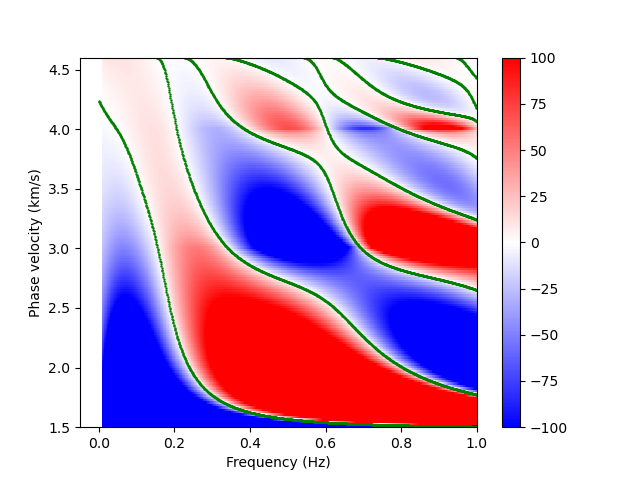
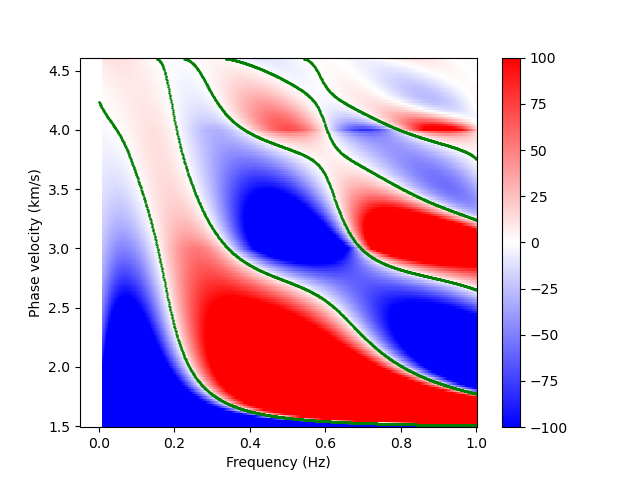
Merge pull request #34 from akuhara/Love
Love

Pull request: Love

diff --git a/test/rayleigh_wave_dispersion_ocean/plot.py b/test/rayleigh_wave_dispersion_ocean/plot.py
@@ -1,18 +1,20 @@
 import numpy as np
+import os
+import tempfile
+os.environ.setdefault("MPLCONFIGDIR", os.path.join(tempfile.gettempdir(), "matplotlib-cache"))
 import matplotlib.pyplot as plt
 import pandas as pd
-import matplotlib as mpl
 
 
 
 
 fig, ax = plt.subplots()
 
-df = pd.read_csv("disper_test.out", delim_whitespace=True, header=None, \
+df = pd.read_csv("disper_test.out", sep=r"\s+", header=None, \
                  names=("Frequency (Hz)", "Phase velocity (km/s)", "Value"))
 
 c, f = np.mgrid[slice(1.5, 4.62, 0.02), slice(0.01, 1.002, 0.002)]
-data = df.pivot("Phase velocity (km/s)", "Frequency (Hz)", "Value")
+data = df.pivot(index="Phase velocity (km/s)", columns="Frequency (Hz)", values="Value")
 
 mappable = ax.pcolormesh(f, c, data, cmap="bwr", vmin=-100, vmax=100)
 cbar = fig.colorbar(mappable, ax=ax)
@@ -26,7 +28,7 @@ with open("tmp.disp", 'w') as f2:
                 f2.write(line)
 
 
-df2 = pd.read_csv("tmp.disp", delim_whitespace=True, header=None, \
+df2 = pd.read_csv("tmp.disp", sep=r"\s+", header=None, \
                   names=("ID", "Frequency (Hz)", "Phase velocity (km/s)"))
 df2.plot.scatter("Frequency (Hz)", "Phase velocity (km/s)", ax=ax, s=2, \
                  marker=".", c="green")

diff --git a/test/love_wave_dispersion/README.md b/test/love_wave_dispersion/README.md
@@ -1,0 +1,18 @@
+# Test for Love wave dispersion curves
+#### Comparison to [Computer Programs in Seismology (CPS) by Harrmann](http://www.eas.slu.edu/eqc/eqccps.html)
+
+![Compalison](./love_test.png)
+
+* Red and blue: Dispersion functions by `disper_fwd`
+* Green: Dispersion curves by CPS
+
+#### Tested model
+|Vp (km/s)|Vs (km/s)|rho (g/cm^3)|Thickness (km)|
+|:---|:---|:---|:---|
+|5.0|3.0|2.5|5.0|
+|7.0|4.0|3.0|10.0|
+|8.1|4.6|3.3|-|
+
+#### Reference:
+
+Robert B. Herrmann; Computer Programs in Seismology: An Evolving Tool for Instruction and Research. Seismological Research Letters ; 84 (6): 1081–1088. doi: (https://doi.org/10.1785/0220110096)